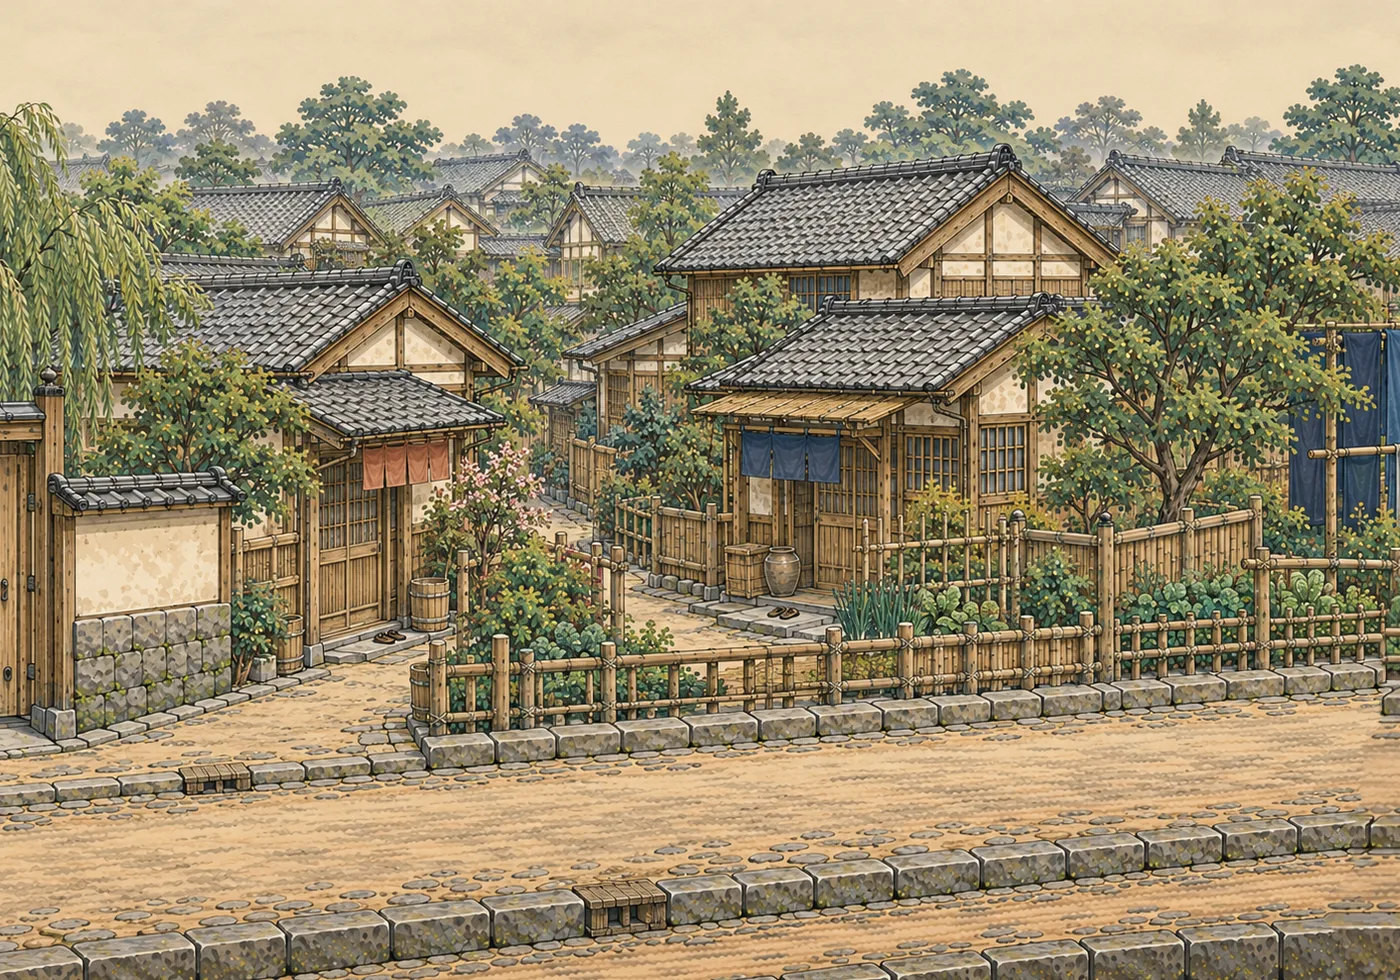
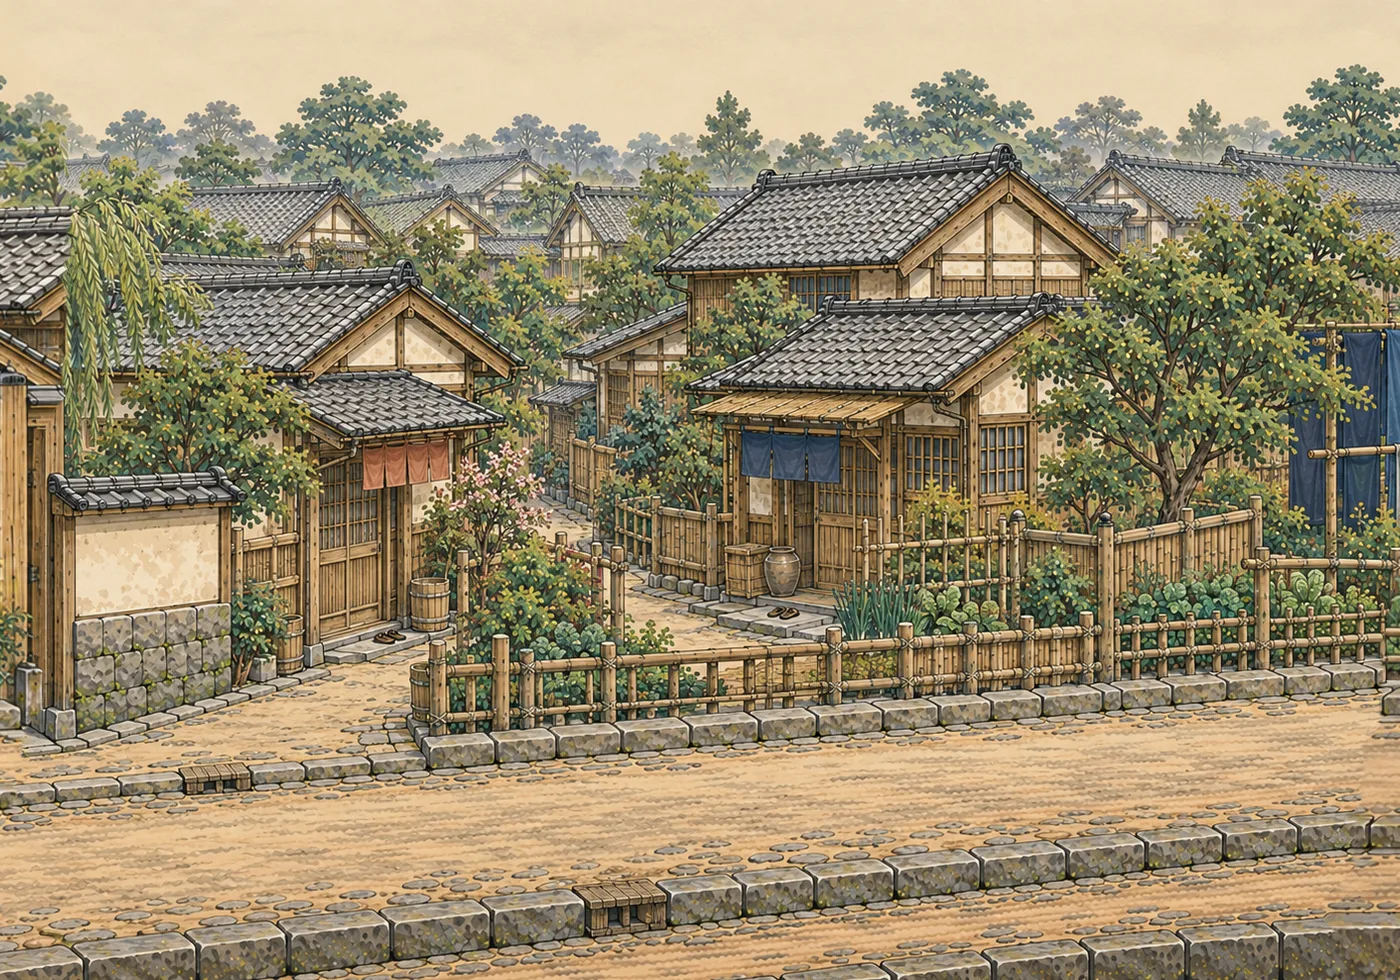
江户编接入 Codex 第 13–14 段：全卷 14 段 14000 单位
- 临水庭院与安静河岸接入，全卷 14 段齐（手机竖屏约 41 屏）
- 卷尾新增 4 处环境反应（大柳、缘台、庭梅、池），合计 30 处

Claude-Session: https://claude.ai/code/session_017B9khwgPhjnf7esrFV7VAS

Changed region(s): [[0.0, 0.0918, 0.0614, 0.8265]]

diff --git a/apps/qingming-edo/src/content/world.ts b/apps/qingming-edo/src/content/world.ts
@@ -75,6 +75,10 @@ export const HOTSPOTS: HotspotDef[] = [
   { id: 'a-dye-cloth', targetId: 'dye-cloth', kind: 'ambient', anchor: { x: 3225, y: 320 }, hitArea: { x: 3050, y: 240, w: 350, h: 160 }, priority: 1 },
   { id: 'a-garden', targetId: 'garden', kind: 'ambient', anchor: { x: 2775, y: 470 }, hitArea: { x: 2650, y: 420, w: 250, h: 100 }, priority: 2 },
   { id: 'a-flowers', targetId: 'flowers', kind: 'ambient', anchor: { x: 2400, y: 450 }, hitArea: { x: 2350, y: 390, w: 100, h: 120 }, priority: 2 },
+  { id: 'a-willow-end', targetId: 'willow-end', kind: 'ambient', anchor: { x: 475, y: 260 }, hitArea: { x: 300, y: 40, w: 350, h: 440 }, priority: 1 },
+  { id: 'a-bench', targetId: 'bench', kind: 'ambient', anchor: { x: 452, y: 510 }, hitArea: { x: 370, y: 488, w: 165, h: 45 }, priority: 2 },
+  { id: 'a-plum2', targetId: 'plum2', kind: 'ambient', anchor: { x: 1910, y: 350 }, hitArea: { x: 1830, y: 280, w: 160, h: 140 }, priority: 2 },
+  { id: 'a-pond', targetId: 'pond', kind: 'ambient', anchor: { x: 1125, y: 375 }, hitArea: { x: 1000, y: 300, w: 250, h: 150 }, priority: 1 },
 ];
 
 export const SCENE: SceneDef = {
@@ -127,6 +131,10 @@ export const AMBIENT_LABEL: Record<string, string> = {
   'dye-cloth': '干された藍染',
   'garden': '小さな菜園',
   'flowers': '垣根の花',
+  'willow-end': '卷尾の柳',
+  'bench': '川端の縁台',
+  'plum2': '庭の梅',
+  'pond': '庭の池',
 };
 export const AMBIENT: Record<string, string> = {
   'willow': '川風に、柳の枝がそよいだ。',
@@ -155,6 +163,10 @@ export const AMBIENT: Record<string, string> = {
   'dye-cloth': '藍に染めた布が、高い竿に干してある。',
   'garden': '小さな菜園に、青菜が並んでいる。',
   'flowers': '垣根の花に、朝の光がさしている。',
+  'willow-end': '大きな柳の下、川風だけが通っていく。',
+  'bench': '川端の縁台。ひと休みするには、ちょうどいい。',
+  'plum2': '庭先の梅が、ほころびはじめている。',
+  'pond': '池の水面に、雲がゆっくり映っていく。',
 };
 
 export const QUESTS: QuestDef[] = [

diff --git a/docs/painted-worlds/qingming-edo/素材台帳.md b/docs/painted-worlds/qingming-edo/素材台帳.md
@@ -8,7 +8,7 @@
 | 人物（線描・旧版） | `art.tsx` の `Figure` | 同上 | 同上 | 通りでは不使用。絵巻頁にのみ残る仮素材 |
 | 店（紙屋・道具屋・茶店・米屋・太物屋）、看板・暖簾の文字 | `art.tsx` の `Shop` | 同上。文字は SVG の文字層（生成の疑似文字なし） | 同上 | 仮素材。店名は創作 |
 | 絵巻頁の構図 6 種（働く手／店先／通りの往来 × 近景／全景）、題箋 3 種、落款「見習」 | `scene/PageArt.tsx` | 同上 | 同上 | 仮素材 |
-| 通り全体の精絵（14 区間のうち 12 区間、x 2000–14000） | `apps/qingming-edo/src/assets/art/street-{2..13}.webp`（各 1400×980、計約 4.0 MB、表示区間と前後だけ読込） | **Codex** が内蔵 image_gen で制作（`codex/painted-worlds-art` の `docs/painted-worlds/art/edo-by-codex/`、母稿と区間 03–12）。Claude が manifest の位置で配置し、重なり部分を最小差異の切れ目で接合、全巻を左右反転（桟橋が右） | 生成サービスのアカウント条項に従う。館蔵画像は入力していない | AI 生成の制作素材。区間 13–14 は制作中。接合の段差 4 か所を Codex に補絵依頼済み |
+| 通り全体の精絵（14 区間、x 0–14000） | `apps/qingming-edo/src/assets/art/street-{0..13}.webp`（各 1400×980、計約 4.6 MB、表示区間と前後だけ読込） | **Codex** が内蔵 image_gen で制作（`codex/painted-worlds-art` 92116b7 の `docs/painted-worlds/art/edo-by-codex/`、母稿と区間 03–14）。Claude が manifest の位置で配置し、重なり部分を最小差異の切れ目で接合、全巻を左右反転（桟橋が右） | 生成サービスのアカウント条項に従う。館蔵画像は入力していない | AI 生成の制作素材。接合の段差 4 か所を Codex に補絵依頼済み |
 | 遠景 | なし（Codex の絵に遠景が描き込まれている） | — | — | 独立した遠景層は未制作 |
 | 主要人物 6 人の立ち絵（各三姿態、90 単位） | `apps/qingming-edo/src/assets/art/{seita,sokichi,okon,kisuke,oharu,kinji}-*.webp`（各 7–25 KB、透明） | 同上。一人三姿態を一枚で生成し、透明の隙間（重なる場合は連結成分）で切り分け | 同上 | AI 生成の参考素材 |
 | 舞い上がる紙（三枚） | `scene/painted.tsx` の `LooseSheets` | Claude がコードで作図 | リポジトリのライセンス | 仮素材。絵に合わせて描き直す |

diff --git a/docs/painted-worlds/qingming-edo/README.md b/docs/painted-worlds/qingming-edo/README.md
@@ -107,7 +107,7 @@ npm run edo:preview    # ビルド結果の確認
 
 ## 6. Codex の長巻原画の接入（2026-10-31〜11-01）
 
-- 町並みを Codex の原画に置き換えた（母稿＋区間 03–12、計 12 区間）。区間 13–14（臨水庭院・静かな河岸）は Codex が制作中で、届くまではカメラが x 2000 より左へ行かない。
+- 町並みを Codex の原画に置き換えた（母稿＋区間 03–14、全 14 区間・14000 単位、手機縦画面で約 41 画面分）。巻尾は臨水の庭と、大きな柳のある静かな河岸。
 - 配置は Codex の manifest（world.x、sourceWindow、1128×700）どおり、1.4 px／単位（原寸以下、拡大なし）。重なり部分は最小差異の縦の切れ目で接合し、全巻を左右反転（x′=14000−x）。
-- 物語の場所：桟橋・柳・荷舟（13）、紙屋・道具屋（12）、茶店（11）、米屋（7）。人物の足元・選択範囲・環境反応 26 か所を新しい絵で引き直した。路人は護岸の上に立たないよう x ≤ 12760。
+- 物語の場所：桟橋・柳・荷舟（13）、紙屋・道具屋（12）、茶店（11）、米屋（7）。人物の足元・選択範囲・環境反応 30 か所を新しい絵で引き直した。路人は護岸の上に立たないよう x ≤ 12760。
 - 既知の問題：接合 4 か所（x 2000、4000、10000、11000、反転前の座標）で路面・路縁の段差が見える。Codex に補絵を依頼済み。
